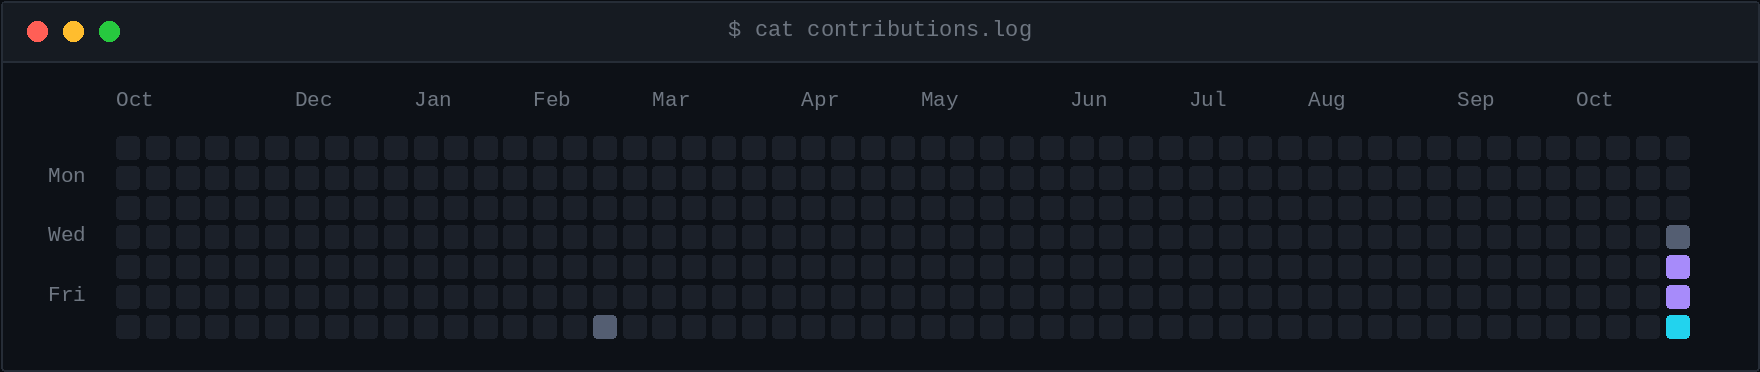
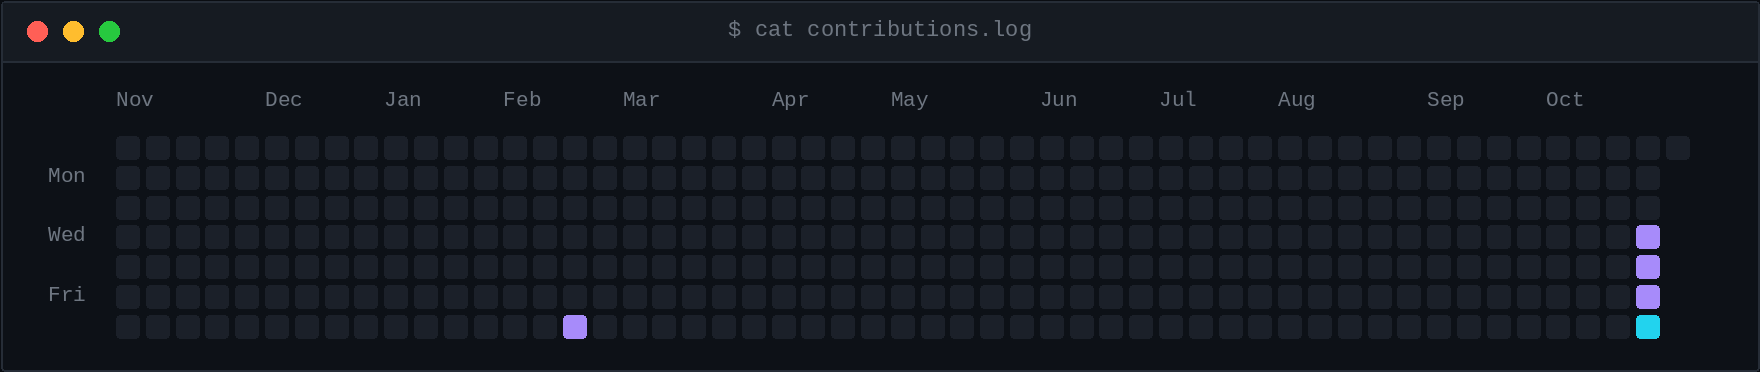
Update profile data

diff --git a/README.md b/README.md
@@ -1,162 +1,15 @@
+<p align="center"><img src="assets/header.gif" width="880" alt="Welcome to my terminal"></p>
 
+<p align="center"><img src="assets/contributions-log.png" width="880" alt="contributions.log"></p>
 
-<!-- ==================== HEADER ==================== -->
+<p align="center"><img src="assets/computer-character.gif" width="880" alt="Developer at a desk, drawn in animated dots, next to a neofetch panel"></p>
 
-<img width="100%" src="https://capsule-render.vercel.app/api?type=waving&color=0:087FF5,20:269EFF,40:70C5FF,55:B8E6FF,68:FFFFFF,100:FFFFFF&height=250&section=header&text=Subhash%20Boina&fontSize=64&fontColor=FFFFFF&fontAlignY=38&animation=fadeIn&desc=Full%20Stack%20Developer%20%7C%20AI%20Application%20Builder%20%7C%20Software%20Developer&descAlignY=59&descSize=18&descColor=244F70" alt="Subhash Boina" />
+<p align="center"><img src="assets/stats.png" width="880" alt="GitHub statistics: total contributions, current streak, longest streak"></p>
 
-<!-- ==================== TERMINAL ==================== -->
+<p align="center"><img src="assets/languages.png" width="880" alt="Most used languages"></p>
 
-<p align="center">
-<img src="assets/header.gif?v=3" width="880" alt="Welcome to my terminal" />
-</p>
+<p align="center"><img src="assets/grid.png" width="880" alt="Contribution grid"></p>
 
-<!-- ==================== SOCIAL LINKS ==================== -->
+<p align="center"><a href="https://www.linkedin.com/in/subhash-b-082565289/"><img src="assets/social-linkedin.png" height="28" alt="LinkedIn"></a>&nbsp;&nbsp;&nbsp;&nbsp;&nbsp;<a href="mailto:subhashsubbu8374@gmail.com"><img src="assets/social-email.png" height="28" alt="Email"></a>&nbsp;&nbsp;&nbsp;&nbsp;&nbsp;<a href="https://subashboina.vercel.app"><img src="assets/social-portfolio.png" height="28" alt="Portfolio"></a></p>
 
-<p align="center">
-  <a href="https://subashboina.vercel.app"><img src="https://img.shields.io/badge/PORTFOLIO-181818?style=for-the-badge" alt="Portfolio" /></a>&nbsp;&nbsp;&nbsp;<a href="https://www.linkedin.com/in/subhash-b-082565289/"><img src="https://img.shields.io/badge/LINKEDIN-181818?style=for-the-badge" alt="LinkedIn" /></a>
-</p>
-
-<!-- ==================== CHARACTER ==================== -->
-
-<p align="center">
-  <img src="assets/computer-character.gif" width="880" alt="Developer workstation character" />
-</p>
-
-<!-- ==================== CONTRIBUTION GRAPHICS ==================== -->
-
-<p align="center">
-  <img src="assets/contributions-log.png" width="880" alt="Contribution log" />
-</p>
-
-<p align="center">
-  <img src="assets/stats.png" width="880" alt="Developer statistics" />
-</p>
-
-<p align="center">
-  <img src="assets/snake.svg" width="880" alt="GitHub contribution snake animation" />
-</p>
-
----
-
-## About Me
-
-I'm Subhash, a software developer who enjoys building applications and exploring new technologies.
-
-I work with modern development tools and technologies to turn ideas into functional applications, with an interest in full-stack development, AI integration, and software development.
-
-I actively explore AI-powered tools and workflows to make development more efficient and bring ideas to life.
-
-Always exploring, building, and learning.
-
----
-
-## Tech Stack
-
-**Languages**
-
-<p>
-  <img src="https://img.shields.io/badge/Python-222222?style=flat-square&logo=python&logoColor=3776AB" alt="Python" />
-  <img src="https://img.shields.io/badge/JavaScript-222222?style=flat-square&logo=javascript&logoColor=F7DF1E" alt="JavaScript" />
-  <img src="https://img.shields.io/badge/TypeScript-222222?style=flat-square&logo=typescript&logoColor=3178C6" alt="TypeScript" />
-  <img src="https://img.shields.io/badge/C-222222?style=flat-square&logo=c&logoColor=A8B9CC" alt="C" />
-  <img src="https://img.shields.io/badge/SQL-222222?style=flat-square&logoColor=FFFFFF" alt="SQL" />
-</p>
-
-**Frontend**
-
-<p>
-  <img src="https://img.shields.io/badge/Next.js-222222?style=flat-square&logo=nextdotjs&logoColor=FFFFFF" alt="Next.js" />
-  <img src="https://img.shields.io/badge/React.js-222222?style=flat-square&logo=react&logoColor=61DAFB" alt="React.js" />
-  <img src="https://img.shields.io/badge/HTML5-222222?style=flat-square&logo=html5&logoColor=E34F26" alt="HTML5" />
-  <img src="https://img.shields.io/badge/CSS3-222222?style=flat-square&logo=css3&logoColor=1572B6" alt="CSS3" />
-  <img src="https://img.shields.io/badge/Tailwind_CSS-222222?style=flat-square&logo=tailwindcss&logoColor=06B6D4" alt="Tailwind CSS" />
-  <img src="https://img.shields.io/badge/Framer_Motion-222222?style=flat-square&logo=framer&logoColor=FFFFFF" alt="Framer Motion" />
-</p>
-
-**Backend & Databases**
-
-<p>
-  <img src="https://img.shields.io/badge/FastAPI-222222?style=flat-square&logo=fastapi&logoColor=009688" alt="FastAPI" />
-  <img src="https://img.shields.io/badge/Flask-222222?style=flat-square&logo=flask&logoColor=FFFFFF" alt="Flask" />
-  <img src="https://img.shields.io/badge/REST_APIs-222222?style=flat-square&logo=fastapi&logoColor=009688" alt="REST APIs" />
-  <img src="https://img.shields.io/badge/WebSockets-222222?style=flat-square&logo=socketdotio&logoColor=FFFFFF" alt="WebSockets" />
-  <img src="https://img.shields.io/badge/PostgreSQL-222222?style=flat-square&logo=postgresql&logoColor=4169E1" alt="PostgreSQL" />
-  <img src="https://img.shields.io/badge/SQLite-222222?style=flat-square&logo=sqlite&logoColor=003B57" alt="SQLite" />
-  <img src="https://img.shields.io/badge/SQLAlchemy-222222?style=flat-square&logo=sqlalchemy&logoColor=D71F00" alt="SQLAlchemy" />
-  <img src="https://img.shields.io/badge/Turso-222222?style=flat-square&logo=turso&logoColor=4FF8D2" alt="Turso" />
-</p>
-
-**Tools & Deployment**
-
-<p>
-  <img src="https://img.shields.io/badge/Git-222222?style=flat-square&logo=git&logoColor=F05032" alt="Git" />
-  <img src="https://img.shields.io/badge/GitHub-222222?style=flat-square&logo=github&logoColor=FFFFFF" alt="GitHub" />
-  <img src="https://img.shields.io/badge/Vite-222222?style=flat-square&logo=vite&logoColor=646CFF" alt="Vite" />
-  <img src="https://img.shields.io/badge/Vercel-222222?style=flat-square&logo=vercel&logoColor=FFFFFF" alt="Vercel" />
-  <img src="https://img.shields.io/badge/Railway-222222?style=flat-square&logo=railway&logoColor=FFFFFF" alt="Railway" />
-  <img src="https://img.shields.io/badge/Neon-222222?style=flat-square&logo=neon&logoColor=00E599" alt="Neon" />
-  <img src="https://img.shields.io/badge/Tauri-222222?style=flat-square&logo=tauri&logoColor=FFC131" alt="Tauri" />
-  <img src="https://img.shields.io/badge/Rust-222222?style=flat-square&logo=rust&logoColor=FFFFFF" alt="Rust" />
-  <img src="https://img.shields.io/badge/Groq_API-222222?style=flat-square&logo=groq&logoColor=F55036" alt="Groq API" />
-  <img src="https://img.shields.io/badge/OpenRouter_API-222222?style=flat-square&logo=openrouter&logoColor=FFFFFF" alt="OpenRouter API" />
-  <img src="https://img.shields.io/badge/Whisper-222222?style=flat-square&logo=openai&logoColor=FFFFFF" alt="Whisper" />
-</p>
-
----
-
-## Featured Projects
-
-### NOMI — Real-Time Messaging Platform
-
-A full-stack messaging platform built around real-time communication and a smooth chat experience.
-
-`React` · `JavaScript` · `Python` · `Flask` · `WebSockets`
-
-[Live ↗](https://nomizen.vercel.app)
-
----
-
-### YO — AI Study Assistant
-
-An AI-powered study companion designed for conversational learning, chat interactions, and voice-based experiences.
-
-`React` · `JavaScript` · `Python` · `Flask` · `AI Integration`
-
-[Live ↗](https://yozen.vercel.app)
-
----
-
-### LIGHT — Cross-Platform AI Voice Assistant
-
-A desktop AI assistant designed to understand natural voice commands, interact with your operating system, and automate everyday tasks.
-
-From launching and closing applications to playing music and sending messages, LIGHT aims to make computer interaction more natural through AI-powered conversations and native system control.
-
-`Tauri 2` · `React` · `TypeScript` · `Rust` · `Vite` · `Tokio` · `Reqwest` · `Serde` · `CPAL`
-
-*"Currently in development"*
-
----
-
-<!-- ==================== CONNECT ==================== -->
-
-<h2 align="center">Connect</h2>
-
-<p align="center">
-  <a href="https://subashboina.vercel.app"><strong>PORTFOLIO ↗</strong></a>
-  &nbsp;&nbsp;&nbsp;·&nbsp;&nbsp;&nbsp;
-  <a href="https://www.linkedin.com/in/subhash-b-082565289/"><strong>LINKEDIN ↗</strong></a>
-  &nbsp;&nbsp;&nbsp;·&nbsp;&nbsp;&nbsp;
-  <a href="mailto:subhashsubbu8374@gmail.com"><strong>EMAIL ↗</strong></a>
-  &nbsp;&nbsp;&nbsp;·&nbsp;&nbsp;&nbsp;
-  <a href="https://wa.me/918247443734"><strong>WHATSAPP ↗</strong></a>
-</p>
-
-<p align="center">
-  <sub><i>Building things. Breaking things. Learning every day.</i></sub>
-</p>
-
-<!-- ==================== FOOTER ==================== -->
-
-<img width="100%" src="https://capsule-render.vercel.app/api?type=waving&color=0:087FF5,20:269EFF,40:70C5FF,55:B8E6FF,68:FFFFFF,100:FFFFFF&height=150&section=footer" alt="Blue and white footer" />
-
+<p align="center"><img src="assets/snake.svg" width="880" alt="Contribution snake"></p>
